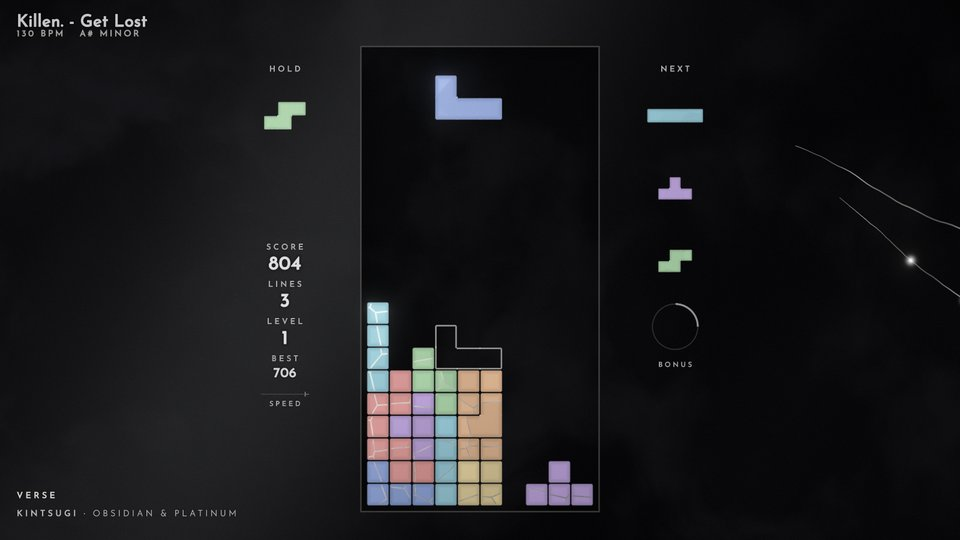
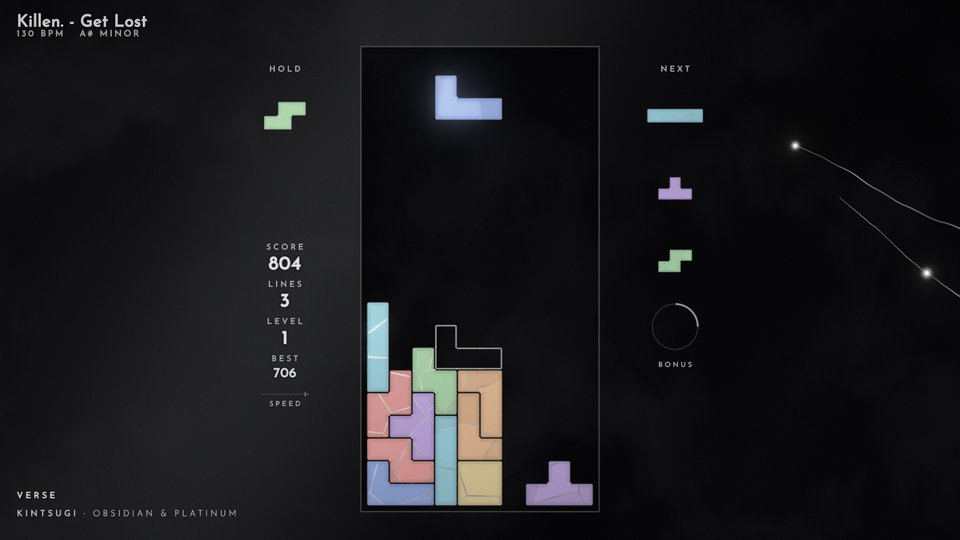
KINTSUGI: a filled board's pieces (Fill events) are vessels of their own, cracked already (were cells of no known piece, joined at random with stale ones); its README image re-shot
Claude-Session: https://claude.ai/code/session_01TRpCVe8qgHvBr5qwovmpX7

diff --git a/src/universes/kintsugi/kintsugi.cpp b/src/universes/kintsugi/kintsugi.cpp
@@ -745,16 +745,19 @@ void KintsugiUniverse::breakRows(const GameEvent& ev, bool quadClear) {
 
 void KintsugiUniverse::onEvent(const GameEvent& ev, const Game&) {
     switch (ev.type) {
-    case GameEvent::Lock: {
+    case GameEvent::Lock:
+    case GameEvent::Fill: {
         if (ev.cells.empty()) break;
-        // the piece's cells belong together (one vessel), with its own pattern of seams
+        // the piece's cells belong together (one vessel), with its own pattern of seams (a filled board's pieces
+        // cracked already)
         const int id = nextId_++;
         const float sx = rng_.range(0.f, 50.f), sy = rng_.range(0.f, 50.f);
         int bottom = -1;
         for (auto& c : ev.cells) bottom = std::max(bottom, c.y);
+        const float at = ev.type == GameEvent::Fill ? now_ - 60.f : now_;
         for (auto& c : ev.cells)
-            if (c.y >= 0 && c.y < Game::H && c.x >= 0 && c.x < Game::W) own_[c.y][c.x] = {c.type, id, sx, sy, bottom, now_};
-        lastDrop_ = 0;
+            if (c.y >= 0 && c.y < Game::H && c.x >= 0 && c.x < Game::W) own_[c.y][c.x] = {c.type, id, sx, sy, bottom, at};
+        if (ev.type == GameEvent::Lock) lastDrop_ = 0;
         break;
     }
     case GameEvent::HardDrop:
